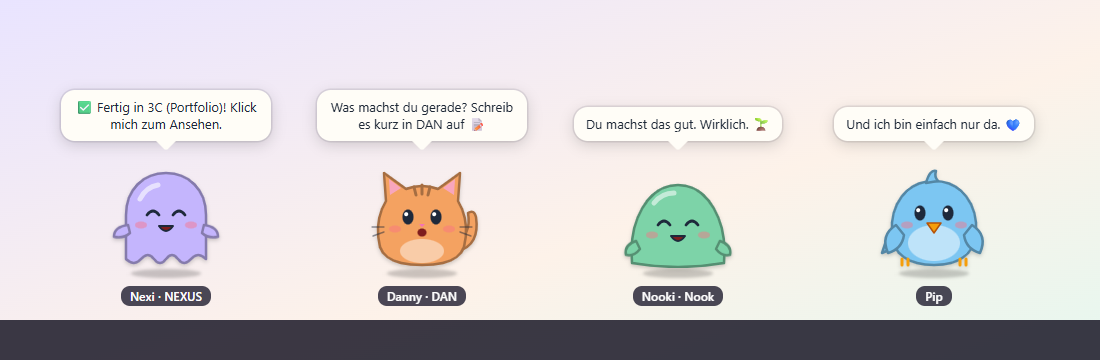
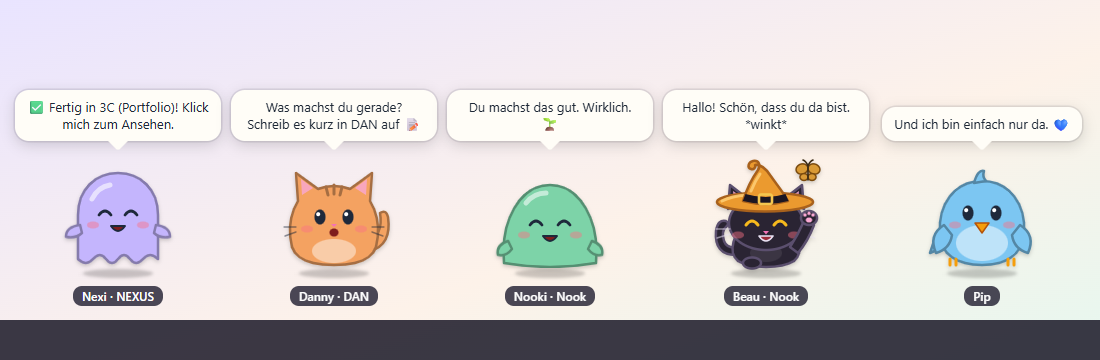
Neues Pet: Beau, der schwarze Kater mit Hexenhut
Beau aus dem Beau-Theme von Nook, im gleichen runden Stil wie alle Pets. Der orange-goldene Hut mit Band und Schnalle bleibt immer auf, auch beim Schlafen. Beau winkt, wenn er sich freut, und gruesst beim Start je nach Tageszeit. Sein Schmetterling flattert mit und landet beim Schlafen auf der Krempe; die waehlbare Farbe faerbt den Schmetterling. Anlegen ueber Tray oder Einstellungen (verbunden mit Nook, eigene Sprueche). README-Bild mit Beau.

diff --git a/src/pet/species.js b/src/pet/species.js
@@ -54,5 +54,63 @@
       <g class="beak-open"><path d="M53 68 L67 68 L60 74 Z" fill="#f59e0b" stroke="#b45309" stroke-width="1.5" stroke-linejoin="round"/><path d="M55 76 L65 76 L60 81 Z" fill="#f59e0b" stroke="#b45309" stroke-width="1.5" stroke-linejoin="round"/></g>`,
   };
 
+  // ---------- Beau: kleiner schwarzer Kater mit Hexenhut (Nook-Beau-Theme) ----------
+  // Gleicher Stil wie alle Pets (runde Formen, 2.5er Linie, Baeckchen). Regeln aus MIND: Hut (orange-golden,
+  // geschwungene Spitze, schwarzes Band, goldene Schnalle) ist IMMER auf; genau 4 Beine und 2 Ohren.
+  // Die waehlbare Farbe faerbt den Schmetterling, Fell und Hut bleiben immer gleich.
+  const INK = '#e9e2f3';       // helle Linien fuer Mund und Schnurrhaare auf schwarzem Fell
+  const GOLD = '#f6b91d';
+  const beauEyes = (lx, rx, y) => `
+    <g class="eyes">
+      <g class="eye"><ellipse cx="${lx}" cy="${y}" rx="6.5" ry="8" fill="${GOLD}" stroke="#a86f08" stroke-width="1.5"/><ellipse cx="${lx + 0.5}" cy="${y + 0.5}" rx="2.6" ry="5.6" fill="#140f1a"/><circle cx="${lx - 2.2}" cy="${y - 3}" r="2" fill="#fff"/></g>
+      <g class="eye"><ellipse cx="${rx}" cy="${y}" rx="6.5" ry="8" fill="${GOLD}" stroke="#a86f08" stroke-width="1.5"/><ellipse cx="${rx + 0.5}" cy="${y + 0.5}" rx="2.6" ry="5.6" fill="#140f1a"/><circle cx="${rx - 2.2}" cy="${y - 3}" r="2" fill="#fff"/></g>
+    </g>
+    <g class="eyes-closed"><path d="M${lx - 6} ${y} q6 5 12 0 M${rx - 6} ${y} q6 5 12 0" stroke="${GOLD}" stroke-width="2.8" fill="none" stroke-linecap="round"/></g>
+    <g class="eyes-happy"><path d="M${lx - 6} ${y + 2} q6 -8 12 0 M${rx - 6} ${y + 2} q6 -8 12 0" stroke="${GOLD}" stroke-width="3" fill="none" stroke-linecap="round"/></g>`;
+  const beauMouth = (x, y) => `
+    <path class="mouth mouth-idle" d="M${x - 5} ${y} q2.5 3 5 0 q2.5 3 5 0" stroke="${INK}" stroke-width="2" fill="none" stroke-linecap="round"/>
+    <ellipse class="mouth mouth-talk" cx="${x}" cy="${y + 1.5}" rx="4.5" ry="4" fill="#9b2c3a"/>
+    <path class="mouth mouth-happy" d="M${x - 7} ${y - 1} q7 10 14 0 z" fill="#9b2c3a" stroke="${INK}" stroke-width="1.6" stroke-linejoin="round"/>
+    <path class="mouth mouth-sad" d="M${x - 5} ${y + 3} q5 -5 10 0" stroke="${INK}" stroke-width="2" fill="none" stroke-linecap="round"/>
+    <ellipse class="mouth mouth-alert" cx="${x}" cy="${y + 1}" rx="3" ry="3.6" fill="#9b2c3a"/>`;
+
+  SPECIES.beau = () => `
+      <path class="fur limb tail" d="M30 100 q-22 0 -20 -24 q2 -12 10 -10 q4 2 0 6 q-5 4 -2 14 q3 8 14 6 z"/>
+      <path class="fur" d="M30 80 Q22 98 32 106 Q42 112 60 112 Q78 112 88 106 Q98 98 90 80 Z"/>
+      <ellipse class="belly" cx="60" cy="98" rx="16" ry="9" fill="#fff" fill-opacity=".08"/>
+      <ellipse class="fur" cx="46" cy="108" rx="9" ry="5.5"/>
+      <g class="paw-r"><ellipse class="fur" cx="74" cy="108" rx="9" ry="5.5"/></g>
+      <path class="fur" d="M22 54 L24 30 L42 44 Z"/>
+      <path class="fur" d="M98 54 L96 30 L78 44 Z"/>
+      <path d="M27 36 L28 47 L36 42 Z M93 36 L92 47 L84 42 Z" fill="#f9a8d4" opacity=".85"/>
+      <ellipse class="fur" cx="60" cy="68" rx="37" ry="27"/>
+      <g class="whiskers" stroke="${INK}" stroke-opacity=".55" stroke-width="1.4" stroke-linecap="round">
+        <path d="M24 74 h-14 M24 79 l-13 4 M96 74 h14 M96 79 l13 4"/>
+      </g>
+      ${beauEyes(46, 74, 68)}${cheeks(32, 88, 80)}
+      <path d="M57 76 h6 l-3 3.5 z" fill="#f472b6"/>${beauMouth(60, 82)}
+      <g class="hat">
+        <ellipse cx="59" cy="47" rx="48" ry="9.5" fill="#eb9a2f" stroke="#a8611c" stroke-width="2.5"/>
+        <path d="M16 46 q10 -5 24 -6" stroke="#ffd27a" stroke-width="3" fill="none" stroke-linecap="round" opacity=".8"/>
+        <path d="M37 46 C41 33 47 22 52 15 C55 10 53 5 47 6 C42 7 41 13 45 14 C48 15 50 12 49 10 C55 9 60 14 64 20 C71 30 78 38 82 46 Q60 52 37 46 Z"
+          fill="#eb9a2f" stroke="#a8611c" stroke-width="2.5" stroke-linejoin="round"/>
+        <path d="M45 36 q4 -10 9 -17" stroke="#ffd27a" stroke-width="3" fill="none" stroke-linecap="round" opacity=".8"/>
+        <path d="M39.5 39 Q60 45 79.5 39 L82.5 46 Q60 52 36.8 46 Z" fill="#1b1622"/>
+        <rect x="53" y="39.5" width="13" height="9.5" rx="2.2" fill="none" stroke="#f4c64f" stroke-width="2.6"/>
+      </g>
+      <g class="wave">
+        <path class="fur" d="M84 92 Q92 80 98 66 L108 70 Q102 86 92 98 Z"/>
+        <ellipse class="fur" cx="103" cy="63" rx="8" ry="7"/>
+        <ellipse cx="103" cy="65" rx="3.2" ry="2.4" fill="#f9a8d4"/>
+        <circle cx="99" cy="60" r="1.6" fill="#f9a8d4"/><circle cx="103" cy="58.5" r="1.6" fill="#f9a8d4"/><circle cx="107" cy="60" r="1.6" fill="#f9a8d4"/>
+      </g>
+      <g class="butterfly"><g class="flap">
+        <ellipse cx="96" cy="14" rx="6" ry="5" class="wing" stroke="#7a4a0e" stroke-width="1.5" transform="rotate(-20 96 14)"/>
+        <ellipse cx="108" cy="14" rx="6" ry="5" class="wing" stroke="#7a4a0e" stroke-width="1.5" transform="rotate(20 108 14)"/>
+        <ellipse cx="98" cy="22" rx="4" ry="3.4" class="wing" stroke="#7a4a0e" stroke-width="1.5"/>
+        <ellipse cx="106" cy="22" rx="4" ry="3.4" class="wing" stroke="#7a4a0e" stroke-width="1.5"/>
+        <path d="M102 11 v14 M102 11 q-2 -5 -5 -6 M102 11 q2 -5 5 -6" stroke="#3a2a14" stroke-width="1.6" fill="none" stroke-linecap="round"/>
+      </g></g>`;
+
   window.renderSpecies = (species) => `<svg viewBox="0 0 120 120" xmlns="http://www.w3.org/2000/svg" class="sp-${species}">${(SPECIES[species] || SPECIES.blob)()}</svg>`;
 })();

diff --git a/src/main.js b/src/main.js
@@ -5,7 +5,7 @@ const path = require('node:path');
 const fs = require('node:fs');
 const os = require('node:os');
 const http = require('node:http');
-const { APPS, SPECIES } = require('./presets');
+const { APPS, SPECIES, BEAU } = require('./presets');
 const { createPet, normalizePet, normalizeState, dueReminder, pickMessage, neighborPairs, chatterDelay, freeSpot, KINDS } = require('./logic');
 const { pickDialogue } = require('./dialogues');
 const { startBridge, PORT } = require('./bridge');
@@ -356,13 +356,23 @@ function onAppEvent(ev) {
 }
 
 // ---------- Pets verwalten ----------
+// Beau: Kater mit Hexenhut, verbunden mit Nook, eigene Sprueche
+const beauExtra = () => {
+  const base = createPet(BEAU.kind);
+  return { name: BEAU.name, species: BEAU.species, reminders: { ...base.reminders, messages: BEAU.messages } };
+};
+function beauGreeting() {
+  const h = new Date().getHours();
+  return BEAU.greetings[h < 5 ? 'nacht' : h < 11 ? 'morgen' : h < 18 ? 'tag' : h < 23 ? 'abend' : 'nacht'];
+}
 function addPet(kind, extra) {
+  if (kind === 'beau') { kind = BEAU.kind; extra = { ...beauExtra(), ...extra }; }
   const pet = createPet(kind, extra);
   state.pets.push(pet);
   createPetWindow(pet);
   save();
   updateTray();
-  setTimeout(() => say(pet.id, `Hallo, ich bin ${pet.name}! 👋`, { mood: 'happy' }), 900);
+  setTimeout(() => say(pet.id, pet.species === 'beau' ? 'Mrrp! Ich bin Beau. 🎩 *winkt*' : `Hallo, ich bin ${pet.name}! 👋`, { mood: 'happy' }), 900);
   return pet;
 }
 function removePet(id) {
@@ -414,7 +424,7 @@ ipcMain.handle('settings:save-pet', (_e, data) => {
   updateTray();
   return pet;
 });
-ipcMain.handle('settings:add-pet', (_e, kind) => addPet(KINDS.includes(kind) ? kind : 'none'));
+ipcMain.handle('settings:add-pet', (_e, kind) => addPet(KINDS.includes(kind) || kind === 'beau' ? kind : 'none'));
 ipcMain.handle('settings:remove-pet', (_e, id) => { removePet(id); return true; });
 ipcMain.handle('settings:test-pet', (_e, id) => { const p = petById(id); if (p) speakNow(p); });
 ipcMain.handle('settings:open-app', (_e, id) => { const p = petById(id); if (p) openApp(p); });
@@ -440,7 +450,11 @@ function updateTray() {
   if (!tray) return;
   tray.setContextMenu(Menu.buildFromTemplate([
     { label: hidden ? 'Pets zeigen' : 'Pets verstecken', click: toggleHidden },
-    { label: 'Neues Pet', submenu: KINDS.map((k) => ({ label: k === 'none' ? 'Ohne App' : `Verbunden mit ${APPS[k].label}`, click: () => addPet(k) })) },
+    { label: 'Neues Pet', submenu: [
+      ...KINDS.map((k) => ({ label: k === 'none' ? 'Ohne App' : `Verbunden mit ${APPS[k].label}`, click: () => addPet(k) })),
+      { type: 'separator' },
+      { label: 'Beau 🎩 (mit Nook)', click: () => addPet('beau') },
+    ] },
     { label: 'Plaudern lassen', enabled: state.pets.length > 1, click: () => maybeChat(true) },
     { label: 'Einstellungen …', click: () => openSettings() },
     { type: 'separator' },
@@ -470,6 +484,8 @@ app.whenReady().then(() => {
   }
   for (const pet of state.pets) createPetWindow(pet);
   if (!SMOKE) setTimeout(() => state.pets.forEach((p) => makeRoom(p)), 1500);
+  // Beau begruesst dich beim Start und hebt die Pfote (Wunsch aus dem Beau-Theme)
+  if (!SMOKE) setTimeout(() => state.pets.filter((p) => p.species === 'beau' && !p.muted).forEach((p) => say(p.id, beauGreeting(), { mood: 'happy', ms: 6000 })), 2500);
   tray = new Tray(icon);
   tray.setToolTip('Pets');
   tray.on('click', () => openSettings());
@@ -486,6 +502,7 @@ app.whenReady().then(() => {
 async function runSmoke() {
   const out = process.env.PETS_SMOKE_OUT || app.getPath('userData');
   fs.mkdirSync(out, { recursive: true });
+  addPet('beau');
   const report = { pets: state.pets.map((p) => `${p.name}/${p.kind}/${p.species}`) };
   // zwei Pets nebeneinander, das dritte weit weg
   const a = screen.getPrimaryDisplay().workArea;

diff --git a/src/pet/pet.css b/src/pet/pet.css
@@ -67,6 +67,23 @@ body:has(#bubble.show) #name { opacity: 0 !important; }
 @keyframes beak { 0% { opacity: 1; } 100% { opacity: .2; } }
 .mouth-talk { transform-box: fill-box; transform-origin: center; }
 
+/* ---------- Beau (schwarzer Kater mit Hexenhut) ---------- */
+.fur { fill: #2a2433; stroke: #5b4f6e; stroke-width: 2.5; stroke-linejoin: round; }
+.sp-beau .tail { transform-origin: right bottom; }
+.wing { fill: var(--c); }   /* Schmetterling in der waehlbaren Farbe (kein Inline-Style: CSP) */
+.sp-beau .wave { display: none; transform-box: fill-box; transform-origin: 0% 100%; }
+.happy .sp-beau .wave, .alert .sp-beau .wave { display: inline; animation: beau-wave .3s ease-in-out infinite alternate; }
+.happy .sp-beau .paw-r, .alert .sp-beau .paw-r { display: none; }
+#pet.happy:has(.sp-beau) #sprite { animation: none; }   /* Beau winkt statt zu huepfen */
+.sp-beau .butterfly { transform-box: fill-box; animation: beau-flutter 7s ease-in-out infinite; }
+.sp-beau .flap { transform-box: fill-box; transform-origin: center; animation: beau-flap .28s ease-in-out infinite; }
+.sleep .sp-beau .butterfly { animation: none; transform: translate(-8px, 22px); }  /* landet auf der Hutkrempe */
+.sleep .sp-beau .flap { animation-duration: 2.4s; }
+@keyframes beau-wave { from { transform: rotate(-10deg); } to { transform: rotate(12deg); } }
+@keyframes beau-flutter { 0%, 100% { transform: translate(0, 0); } 20% { transform: translate(-14px, 6px); } 45% { transform: translate(-6px, -5px); }
+  70% { transform: translate(5px, 5px); } 85% { transform: translate(3px, -3px); } }
+@keyframes beau-flap { 0%, 100% { transform: scaleX(1); } 50% { transform: scaleX(.35); } }
+
 /* Zzz beim Schlafen */
 #zzz { position: absolute; right: 2%; top: 4%; display: none; color: #a5b4fc; font-weight: 700; text-shadow: 0 1px 2px rgba(0,0,0,.4); pointer-events: none; }
 .sleep #zzz { display: block; }

diff --git a/scripts/showcase.css b/scripts/showcase.css
@@ -1,6 +1,6 @@
 html, body { background: linear-gradient(160deg, #e9e4ff 0%, #fdf2e9 60%, #e6f7ef 100%); }
-.scene { position: relative; height: 100%; display: flex; justify-content: center; align-items: flex-end; gap: 46px; padding-bottom: 54px; box-sizing: border-box; }
-.pet { --size: 120px; position: relative; width: 210px; display: flex; flex-direction: column; align-items: center; }
+.scene { position: relative; height: 100%; display: flex; justify-content: center; align-items: flex-end; gap: 10px; padding-bottom: 54px; box-sizing: border-box; }
+.pet { --size: 120px; position: relative; width: 206px; display: flex; flex-direction: column; align-items: center; }
 .pet .sprite { width: var(--size); height: var(--size); }
 .pet .sprite svg { width: 100%; height: 100%; overflow: visible; filter: drop-shadow(0 2px 2px rgba(0,0,0,.18)); }
 .pet .shadow { width: 70px; height: 9px; border-radius: 50%; background: rgba(0,0,0,.2); filter: blur(1.5px); margin-top: -6px; }
@@ -10,3 +10,4 @@ html, body { background: linear-gradient(160deg, #e9e4ff 0%, #fdf2e9 60%, #e6f7e
 .pet .say::after { content: ""; position: absolute; left: 50%; bottom: -7px; width: 14px; height: 14px; background: inherit; transform: translateX(-50%) rotate(45deg); border-radius: 0 0 3px 0; }
 .taskbar { position: absolute; left: 0; right: 0; bottom: 0; height: 40px; background: rgba(32, 30, 44, .88); }
 .pet.idle #sprite, .pet .sprite { animation: none; }
+.pet .flap, .pet .butterfly, .pet .wave { animation: none !important; }

diff --git a/src/presets.js b/src/presets.js
@@ -76,9 +76,30 @@ const SPECIES = {
   cat: { label: 'Mauz (Katze)', color: '#f4a261' },
   ghost: { label: 'Buh (Geist)', color: '#c4b5fd' },
   bird: { label: 'Piep (Vogel)', color: '#7cc6f2' },
+  beau: { label: 'Beau (Kater mit Hexenhut)', color: '#d99a36' }, // Farbe = Schmetterling; der Hut bleibt immer orange-golden
+};
+
+// Beau: eigenes Pet, gehoert zum Beau-Theme von Nook
+const BEAU = {
+  name: 'Beau',
+  species: 'beau',
+  kind: 'nook',
+  messages: [
+    'Miau. Der Hut sitzt. ✨',
+    'Ich hab einen Schmetterling gesehen! 🦋',
+    'Du machst das gut. Wirklich. 🌙',
+    'Kleine Pause? Ich halte so lange die Stellung. 🎩',
+    'Trink mal einen Schluck Wasser 💧',
+    'Schultern runter, tief durchatmen. Ich schnurre mit.',
+    '*streckt sich* Mach du das auch mal kurz!',
+    'Ein Kapitel nach dem anderen. 📖',
+    'Ich bin stolz auf dich. Mrrp.',
+    'Du darfst Pausen machen, bevor du müde bist.',
+  ],
+  greetings: { morgen: 'Guten Morgen! ☀ *winkt*', tag: 'Hallo! Schön, dass du da bist. *winkt*', abend: 'Guten Abend! 🕯 *winkt*', nacht: 'Noch wach? 🌙 *winkt leise*' },
 };
 
 const NAMES = { nexus: 'Nexi', dan: 'Danny', nook: 'Nooki', custom: 'Pip', none: 'Momo' };
 const DEFAULT_SPECIES = { nexus: 'ghost', dan: 'cat', nook: 'blob', custom: 'bird', none: 'blob' };
 
-module.exports = { APPS, SPECIES, NAMES, DEFAULT_SPECIES };
+module.exports = { APPS, SPECIES, NAMES, DEFAULT_SPECIES, BEAU };

diff --git a/scripts/showcase.html b/scripts/showcase.html
@@ -11,6 +11,7 @@
     <div class="pet idle" data-species="ghost" data-color="#c4b5fd" data-say="✅ Fertig in 3C (Portfolio)! Klick mich zum Ansehen." data-mood="happy"><b>Nexi · NEXUS</b></div>
     <div class="pet idle" data-species="cat" data-color="#f4a261" data-say="Was machst du gerade? Schreib es kurz in DAN auf 📝" data-mood="talk"><b>Danny · DAN</b></div>
     <div class="pet idle" data-species="blob" data-color="#7dd3a8" data-say="Du machst das gut. Wirklich. 🌱" data-mood="happy"><b>Nooki · Nook</b></div>
+    <div class="pet idle" data-species="beau" data-color="#d99a36" data-say="Hallo! Schön, dass du da bist. *winkt*" data-mood="happy"><b>Beau · Nook</b></div>
     <div class="pet idle" data-species="bird" data-color="#7cc6f2" data-say="Und ich bin einfach nur da. 💙" data-mood="idle"><b>Pip</b></div>
     <div class="taskbar"></div>
   </div>

diff --git a/src/settings/settings.css b/src/settings/settings.css
@@ -37,6 +37,9 @@ header { display: flex; align-items: center; gap: 16px; margin-bottom: 14px; }
 #preview svg { width: 100%; height: 100%; overflow: visible; }
 .body { fill: var(--c); stroke: var(--c-dark); stroke-width: 2.5; stroke-linejoin: round; }
 .stripe { stroke: var(--c-dark); }
+.fur { fill: #2a2433; stroke: #5b4f6e; stroke-width: 2.5; stroke-linejoin: round; }
+.wave { display: none; }
+.wing { fill: var(--c); }
 .cheek { fill: #fb7185; opacity: .45; }
 .eyes-closed, .eyes-happy, .mouth, .beak-open { display: none; }
 .mouth-idle { display: inline; }

diff --git a/src/settings/settings.html b/src/settings/settings.html
@@ -17,6 +17,7 @@
         <option value="nook">mit Nook</option>
         <option value="custom">mit eigener App</option>
         <option value="none">ohne App</option>
+        <option value="beau">Beau 🎩 (mit Nook)</option>
       </select>
       <button id="add" class="primary">+ Neues Pet</button>
     </div>

diff --git a/README.md b/README.md
@@ -21,7 +21,7 @@
 </p>
 
 <p align="center">
-  <img src="docs/screenshots/pets.png" alt="Vier Pets über der Taskleiste: ein Geist meldet einen fertigen Auftrag in NEXUS, eine Katze erinnert an DAN, ein Schleim sagt etwas Nettes, ein Vogel ist einfach da" width="900">
+  <img src="docs/screenshots/pets.png" alt="Fünf Pets über der Taskleiste: ein Geist meldet einen fertigen Auftrag in NEXUS, eine Katze erinnert an DAN, ein Schleim sagt etwas Nettes, Beau winkt mit Hexenhut, ein Vogel ist einfach da" width="900">
 </p>
 
 Du vergisst beim Arbeiten, deinen Ausbildungsnachweis zu schreiben, Wasser zu trinken oder nachzusehen, ob Claude schon fertig ist? **Pets sitzen unten auf deinem Bildschirm und sagen dir Bescheid.**
@@ -88,9 +88,10 @@ Beim ersten Start legt Pets für jede gefundene App (NEXUS, DAN, Nook) ein eigen
 | **NEXUS** | meldet, wenn ein Auftrag in 3C fertig ist, schiefging oder Claude eine Entscheidung braucht |
 | **DAN** | erinnert Mo–Fr stündlich (7:30–16:30) daran aufzuschreiben, was du gerade machst; um 15:45 die Feierabend-Erinnerung |
 | **Nook** | sagt alle 45 Minuten etwas Nettes oder erinnert an Pausen und Wasser; um 12:30 Mittagspause |
+| **Beau** 🎩 | schwarzer Kater mit Hexenhut aus dem Beau-Theme von Nook: begrüßt dich beim Start und winkt, sein Schmetterling flattert mit (Tray → Neues Pet → Beau) |
 | **Eigene App** | öffnet ein beliebiges Programm, eine Datei oder eine `https://`-Adresse |
 
-Alles lässt sich pro Pet in den Einstellungen ändern: Tier (Geist, Katze, Schleim, Vogel), Farbe, Größe, Sprüche, Abstand, Uhrzeiten und ob es herumläuft.
+Alles lässt sich pro Pet in den Einstellungen ändern: Tier (Geist, Katze, Schleim, Vogel oder Beau, der schwarze Kater mit Hexenhut), Farbe, Größe, Sprüche, Abstand, Uhrzeiten und ob es herumläuft.
 
 ## Für Entwickler
 
